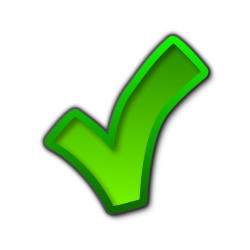
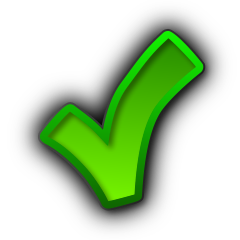
progress spinner

Changed region(s): [[0.0875, 0.0583, 0.9333, 0.9625], [0.4375, 0.5833, 0.4667, 0.6125]]

diff --git a/index.php b/index.php
@@ -63,7 +63,7 @@ $scriptStartTime = time();
 <h2>&ndash; by David, Kilian, Rick, Sebastian</h2>
 <div id="progressdiv">
     <div id="progressbar-outer"><div id="progresstext"></div><div id="progressbar-inner"></div></div>
-    <img id="progressimg" alt="progress image" style=""/>
+    <img id="progressimg" alt="progress image" style="" src="img/progress_loop.gif"/>
 </div>
 <table>
 <thead>
